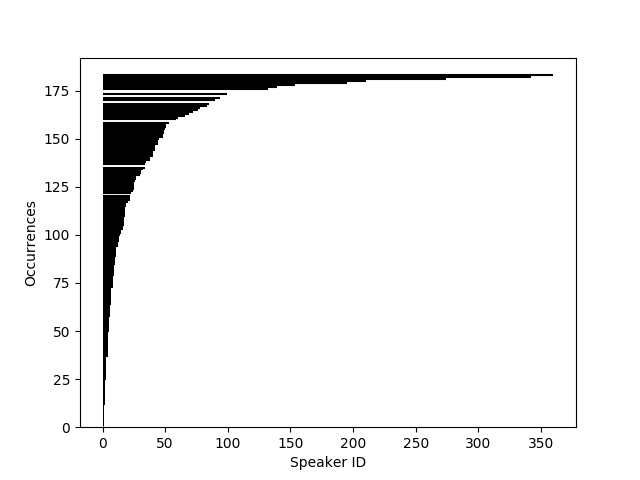
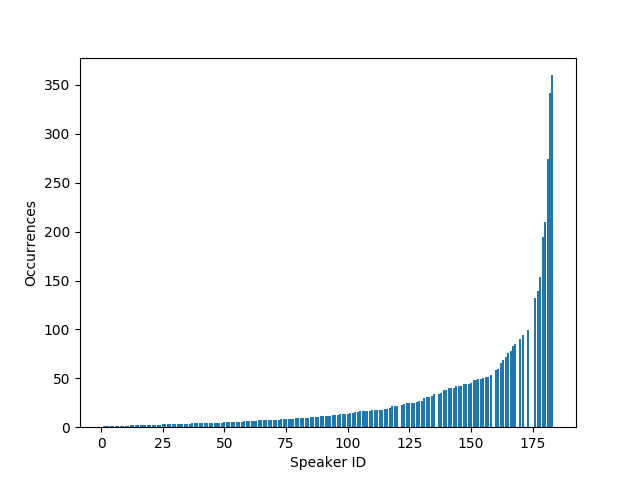
Adjust histogram

diff --git a/explore.py b/explore.py
@@ -35,13 +35,11 @@ def majority():
     return counts, (majority_speaker[1] / total_occurrences)
 
 def bar(dataset):
-    x = dataset[0,:]
-    y = dataset[1,:]
+    x = dataset[:,0]
+    y = dataset[:,1]
     plt.bar(x,y,align='center')
     plt.xlabel('Speaker ID')
     plt.ylabel('Occurrences')
-    for i in dataset:
-        plt.hlines(i[0],0,i[1])
     plt.show()
 
 # shapes([val_conv, val_emb, val_rec, val_spk, val_text, val_mfcc])
